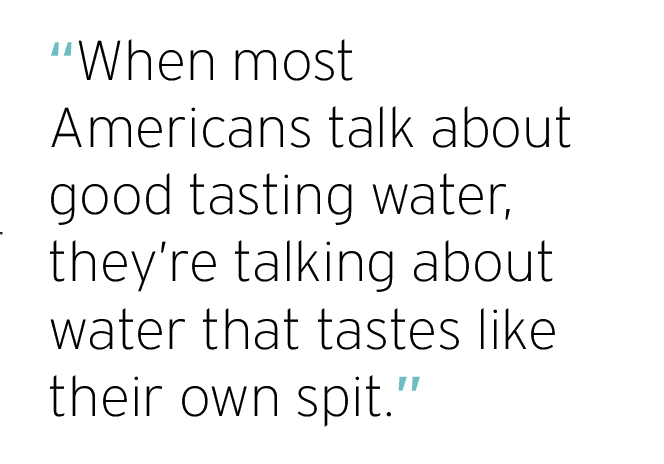
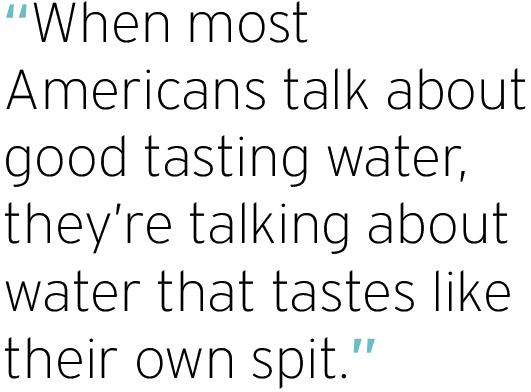
Edit pull quotes and add classes

diff --git a/site/story/beyondthepalebluedot.html b/site/story/beyondthepalebluedot.html
@@ -11,9 +11,9 @@
 <h1>Beyond the Pale Blue Dot</h1>
 
 <p class="italic">The search for life beyond our planet is also the search for the most universal power source &mdash; water.</p> 
-<p><span class="bold">By Kelly Izlar</span></p>
+<p class="bold">By Kelly Izlar</p>
 
-<div style="float:right; margin: 10px; width:40%;"><img src="images/palebluedot.png" style="max-width: 100%;"/><p style="text-align: right;">‘Pale Blue Dot’ Voyager I, NASA/JPL</p></div>
+<div class="storyimg"><img src="images/palebluedot.png"/><p class="imgcaption">‘Pale Blue Dot’ Voyager I, NASA/JPL</p></div>
 <p>Valentine’s Day, 1990: An unmanned space probe hurtled through the orbit of Pluto at 40,000 miles per hour. Voyager 1 was 12 years and 3.7 billion miles away from home. It was about to become the human-made object farthest from Earth. </p>
 
 <p>The mission control crew reportedly had prepared to turn the cameras off to save the batteries for the spacecraft’s long journey beyond the border of the solar system. </p>
@@ -38,7 +38,9 @@
 
 <p>“It’s NASA’s idea of exploration: We should follow the water in the universe,” Pohorille says. </p>
 
-<p>In the solar system, our planet is happily situated in what astronomers call the “Goldilocks zone”: close enough to the sun where the water won’t freeze, but distant enough that it won’t boil off. </p> 
+<div class="pullquote"><img src="images/quote-palebluedot.png"/></div>
+
+<p>In the solar system, our planet is happily situated in what astronomers call the “Goldilocks zone”: close enough to the sun where the water won’t freeze, but distant enough that it won’t boil off. </p>
 
 <p>Pluto’s too far away, Mercury’s too close, but Earth is just right.</p>
 

diff --git a/site/style/story.css b/site/style/story.css
@@ -20,3 +20,7 @@ p {font: 14px/19px Interstate-Light, verdana, sans-serif; margin:  0 0 15px 0; c
 
 .bold {font-family: Interstate-Bold, verdana, sans-serif; font-weight: bold;}
 .italic {font-family: Interstate-Lightitalic, verdana, sans-serif; font-style: italic;}
+
+.storyimg {float: right; margin: 10px; width:40%;}
+.imgcaption {text-align: right;}
+.pullquote {float: right; width: 40%; margin: 3% 0px 3% 5%;}
